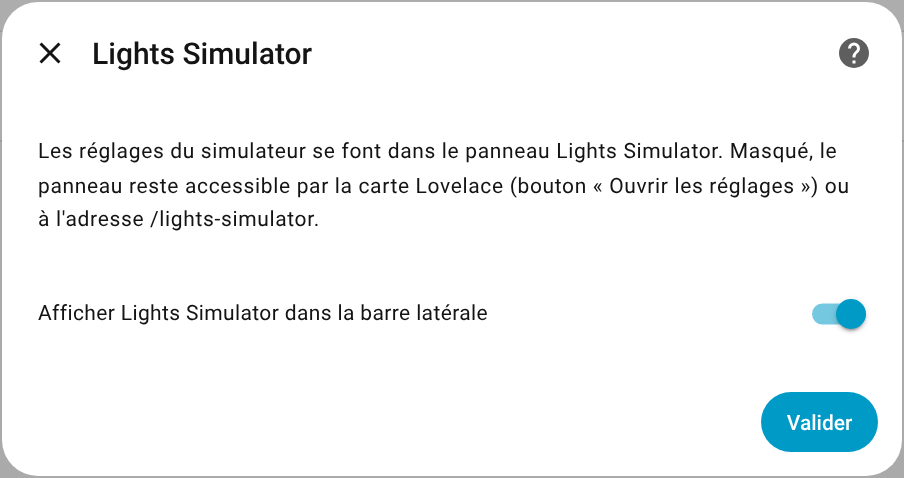
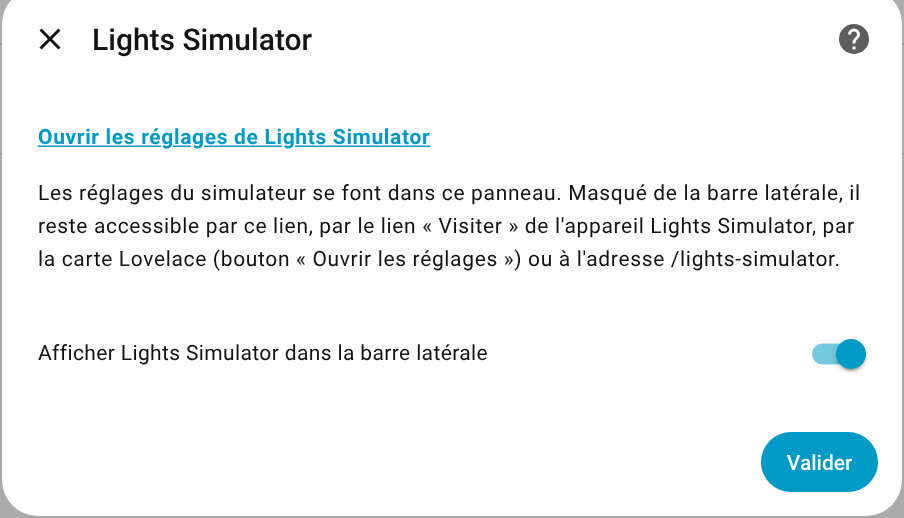
Lights Simulator 2026.11.4
Liens vers le panneau depuis Appareils et services quand il est masqué :
lien dans la fenêtre Configurer et lien Visiter de l'appareil.

Claude-Session: https://claude.ai/code/session_01LtneExaoobW3AgE1UkUiyR

diff --git a/custom_components/lights_simulator/frontend/lights-simulator-panel.js b/custom_components/lights_simulator/frontend/lights-simulator-panel.js
@@ -345,7 +345,7 @@ class LightsSimulatorPanel extends HTMLElement {
       <section class="card">
         <h2>Affichage</h2>
         ${this._interrupteur("Afficher dans la barre latérale", "general", "barre_laterale", this._valeur("general", "barre_laterale") !== false)}
-        <p class="k petit">Masqué, le panneau reste accessible par la carte Lovelace (bouton « Ouvrir les réglages »), par Paramètres → Appareils et services → Lights Simulator → Configurer, ou à l'adresse /lights-simulator.</p>
+        <p class="k petit">Masqué, le panneau reste accessible depuis Paramètres → Appareils et services → Lights Simulator (lien « Visiter » de l'appareil, ou bouton Configurer), par la carte Lovelace (bouton « Ouvrir les réglages »), ou à l'adresse /lights-simulator.</p>
       </section>
       <section class="card"><h2>Journal</h2>${journal}</section>`;
   }

diff --git a/custom_components/lights_simulator/entity.py b/custom_components/lights_simulator/entity.py
@@ -6,7 +6,7 @@ from homeassistant.helpers.device_registry import DeviceInfo
 from homeassistant.helpers.dispatcher import async_dispatcher_connect
 from homeassistant.helpers.entity import Entity
 
-from .const import DOMAIN, NOM_APPAREIL, SIGNAL_MAJ, VERSION
+from .const import DOMAIN, NOM_APPAREIL, PANEL_URL, SIGNAL_MAJ, VERSION
 from .engine import Moteur
 
 
@@ -26,6 +26,8 @@ class EntiteSimulateur(Entity):
             manufacturer="akoonet",
             model="Simulation de présence",
             sw_version=VERSION,
+            # Lien « Ouvrir » sur la fiche de l'appareil : mène au panneau même s'il est masqué
+            configuration_url=f"homeassistant://{PANEL_URL}",
         )
 
     async def async_added_to_hass(self) -> None:

diff --git a/custom_components/lights_simulator/const.py b/custom_components/lights_simulator/const.py
@@ -3,7 +3,7 @@
 from __future__ import annotations
 
 DOMAIN = "lights_simulator"
-VERSION = "2026.11.3"
+VERSION = "2026.11.4"
 NOM_APPAREIL = "Lights Simulator"
 
 PANEL_URL = "lights-simulator"

diff --git a/README.md b/README.md
@@ -104,7 +104,13 @@ Options : `titre` (texte affiché), `prefixe` (si vous avez renommé les entité
 
 ### Retirer Lights Simulator de la barre latérale
 
-Désactivez **Afficher dans la barre latérale**, dans l'onglet *Fonctionnement* du panneau ou par *Paramètres → Appareils et services → Lights Simulator → Configurer*. Le panneau reste accessible par le bouton « Ouvrir les réglages » de la carte, par ce même bouton *Configurer* (pour le réafficher), ou à l'adresse `/lights-simulator`.
+Désactivez **Afficher dans la barre latérale**, dans l'onglet *Fonctionnement* du panneau ou par *Paramètres → Appareils et services → Lights Simulator → Configurer*. Le panneau reste accessible :
+
+- depuis *Paramètres → Appareils et services → Lights Simulator* : lien **Ouvrir les réglages de Lights Simulator** du bouton *Configurer*, ou lien **Visiter** de l'appareil Lights Simulator ;
+- par le bouton « Ouvrir les réglages » de la carte Lovelace ;
+- à l'adresse `/lights-simulator`.
+
+Pour le réafficher dans la barre latérale, réactivez l'interrupteur dans le panneau ou dans *Configurer*.
 
 ![Configurer](docs/screenshots/configurer.png)
 
@@ -166,7 +172,13 @@ The card shows the mode, status, start time, sun, each lit light with its switch
 
 ### Removing Lights Simulator from the sidebar
 
-Turn off **Afficher dans la barre latérale** (show in sidebar) in the panel's *Fonctionnement* tab or in *Settings → Devices & services → Lights Simulator → Configure*. The panel stays reachable from the card's "Ouvrir les réglages" button, from the same *Configure* button (to show it again), or at `/lights-simulator`.
+Turn off **Afficher dans la barre latérale** (show in sidebar) in the panel's *Fonctionnement* tab or in *Settings → Devices & services → Lights Simulator → Configure*. The panel stays reachable:
+
+- from *Settings → Devices & services → Lights Simulator*: the **Open Lights Simulator settings** link in the *Configure* dialog, or the **Visit** link of the Lights Simulator device;
+- from the Lovelace card's "Ouvrir les réglages" button;
+- at `/lights-simulator`.
+
+To show it in the sidebar again, turn the switch back on in the panel or in *Configure*.
 
 ### Moving from a hand-made simulator
 
